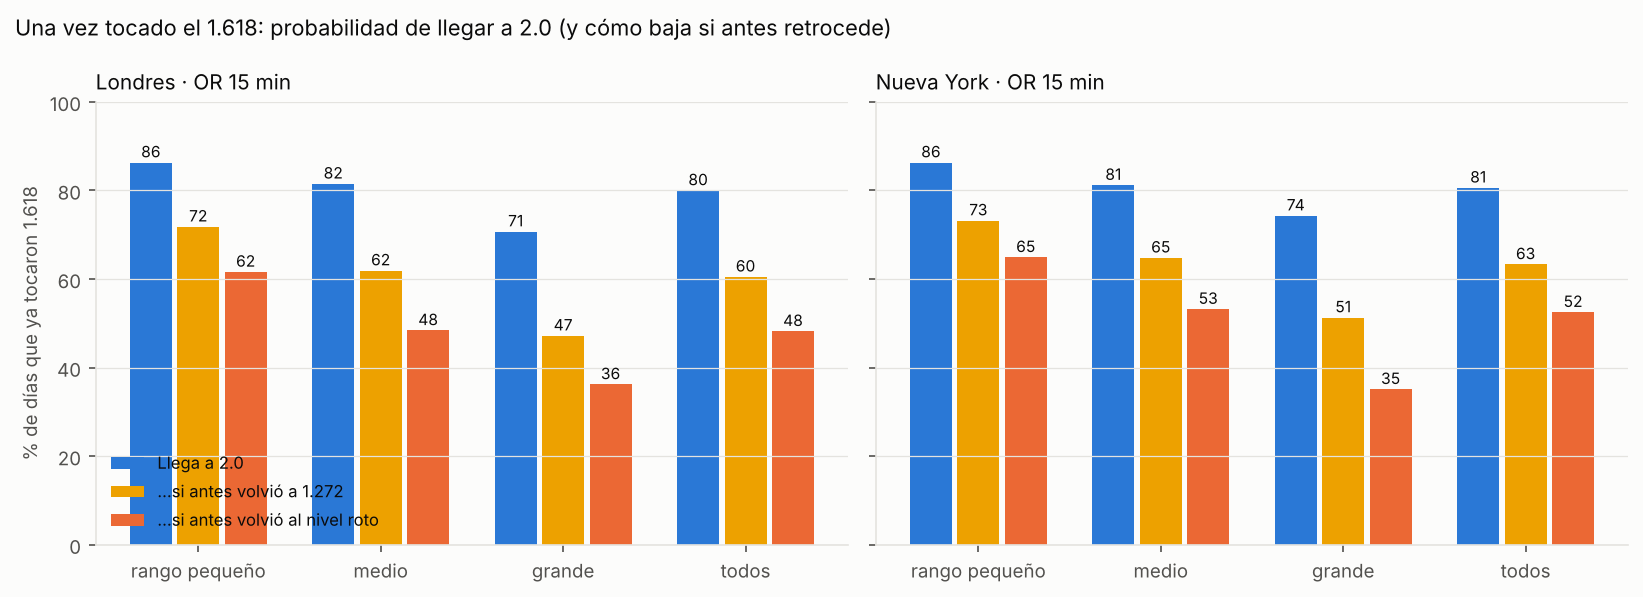
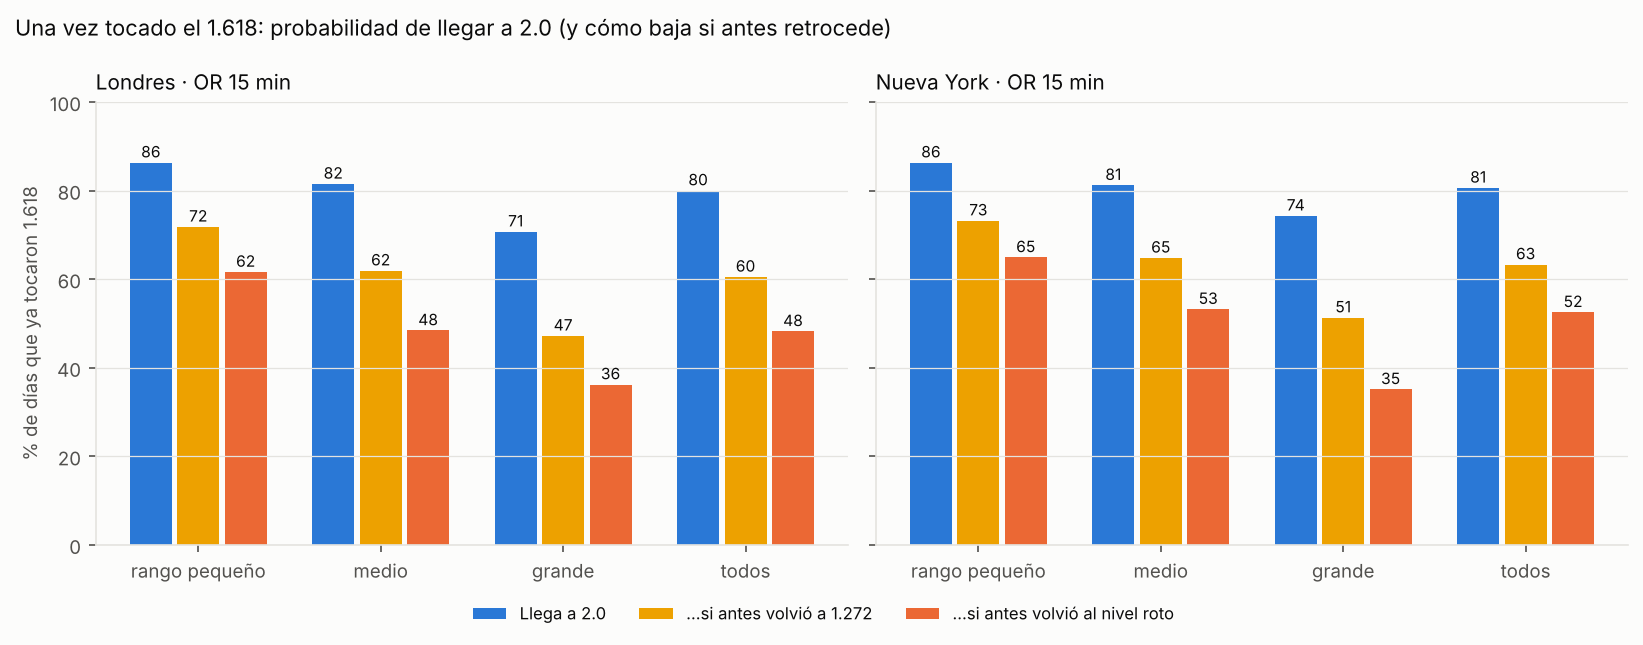
Move legend below extension chart
Claude-Session: https://claude.ai/code/session_0193D3cMsmwC3kVexkZh9scS

diff --git a/orb/agents/extension.py b/orb/agents/extension.py
@@ -241,7 +241,8 @@ class ExtensionStudy:
             ax.set_title(f"{'Londres' if ses == 'London' else 'Nueva York'} · OR 15 min", loc="left", fontsize=10)
             ax.grid(axis="x", visible=False)
         axes[0].set_ylabel("% de días que ya tocaron 1.618")
-        axes[0].legend(fontsize=8, loc="lower left")
+        h, l = axes[0].get_legend_handles_labels()
+        fig.legend(h, l, loc="lower center", ncol=3, fontsize=8, bbox_to_anchor=(0.5, -0.06))
         fig.suptitle("Una vez tocado el 1.618: probabilidad de llegar a 2.0 (y cómo baja si antes retrocede)",
                      x=0.01, ha="left", fontsize=10.5)
         fig.tight_layout()
